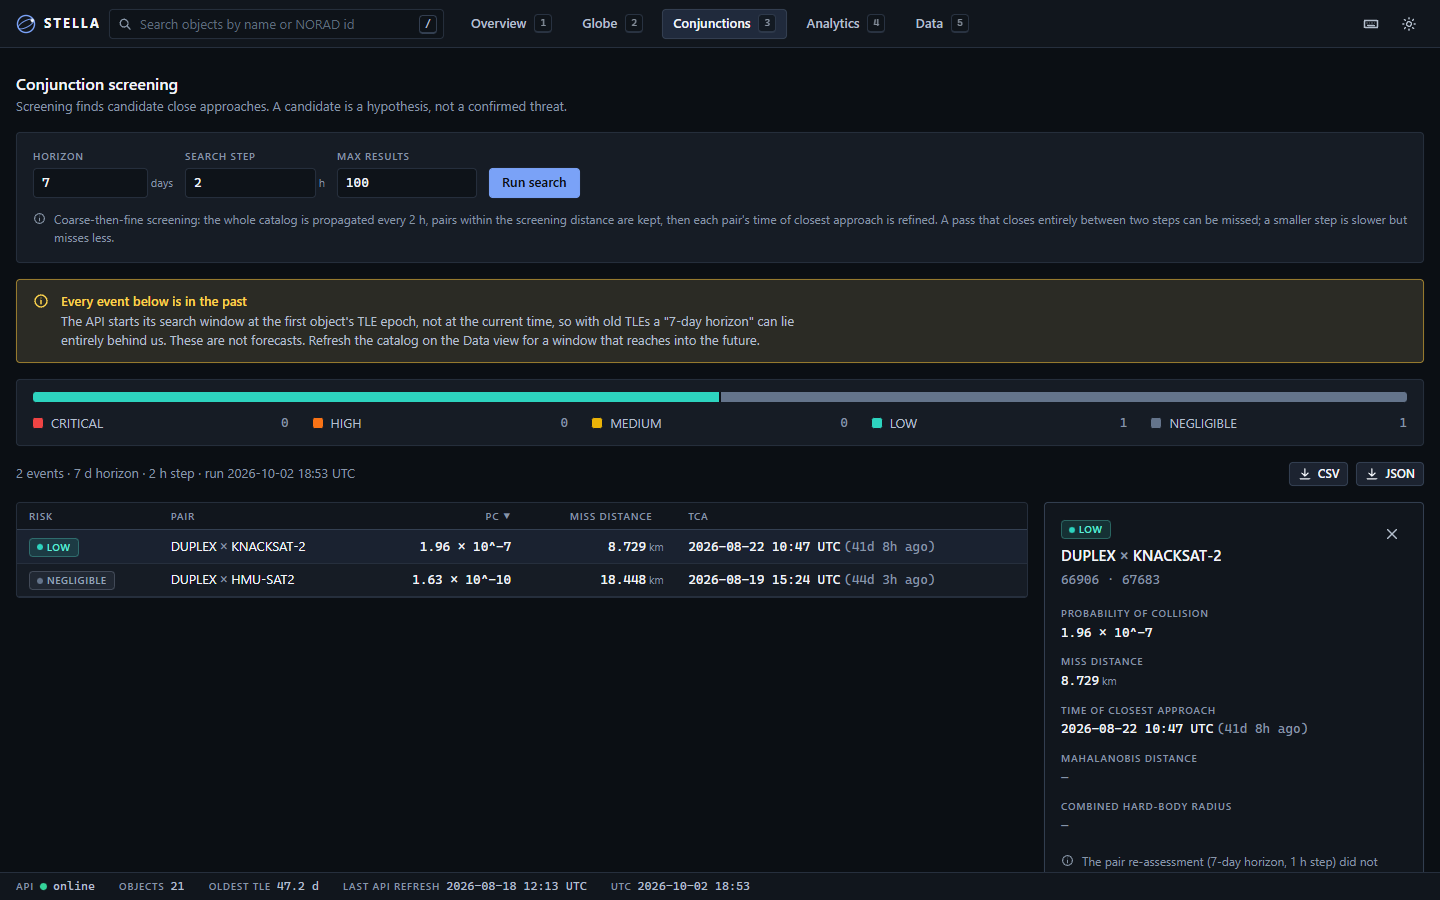
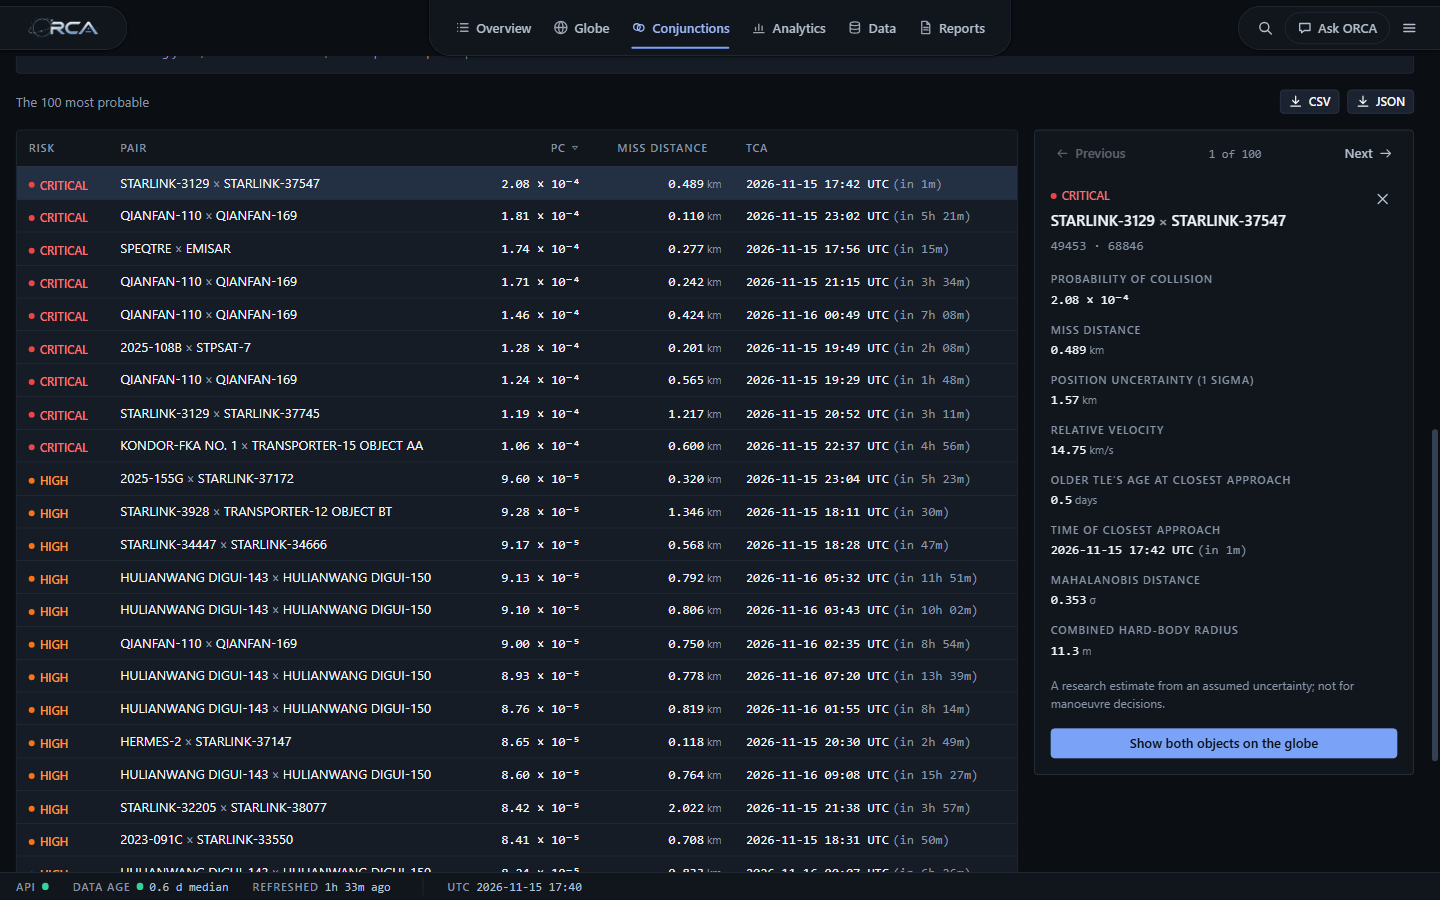
Screenshots after the declutter pass: README preview now six pages (Home, Globe, Conjunctions, Overview, Analytics, API health); report figures retaken from a live search, plus the new API health figure

diff --git a/snapshots/README.md b/snapshots/README.md
@@ -209,3 +209,25 @@ Every page after the declutter pass (`MD/declutter_plan_2026-11-15.md`); the "be
 | [after-health-light.png](14-declutter-2026-11-15/after-health-light.png) | Light theme |
 | [after-health-offline.png](14-declutter-2026-11-15/after-health-offline.png) | The API blocked: "The API is not answering", the error, the last good response kept |
 | [after-reports.png](14-declutter-2026-11-15/after-reports.png) | Reports: the builder no longer repeats the run line |
+
+## 14-report-figures-2026-11-15
+
+Figures for the final report, retaken after the declutter pass (same names, same 1440x900 or 390x844 framing). Conjunction figures come from a live 1-day search run at 17:39 UTC on 2026-11-15 (262,303 approaches closer than 10 km; 9 critical, 640 high). `01-sign-in` is the earlier capture (the sign-in page did not change). There is no figure 05.
+
+| File | What it shows |
+|---|---|
+| [01-sign-in-1440.png](14-report-figures-2026-11-15/01-sign-in-1440.png) | Sign in |
+| [02-home-1440.png](14-report-figures-2026-11-15/02-home-1440.png) | Home: headline, three KPI cards |
+| [03-home-lower-1440.png](14-report-figures-2026-11-15/03-home-lower-1440.png) | Home, lower: five worst approaches, orbit regimes, Data quality with the API row |
+| [04-overview-1440.png](14-report-figures-2026-11-15/04-overview-1440.png) | Overview with an object open |
+| [06-conjunctions-result-1440.png](14-report-figures-2026-11-15/06-conjunctions-result-1440.png) | Conjunctions: the answer, risk tiers, caveats |
+| [07-conjunctions-table-1440.png](14-report-figures-2026-11-15/07-conjunctions-table-1440.png) | The timeline and the table |
+| [08-pair-detail-1440.png](14-report-figures-2026-11-15/08-pair-detail-1440.png) | A pair open beside the table (with Mahalanobis distance and hard-body radius from the live re-assessment) |
+| [09-globe-conjunction-1440.png](14-report-figures-2026-11-15/09-globe-conjunction-1440.png) | The same pair on the Globe |
+| [10-analytics-1440.png](14-report-figures-2026-11-15/10-analytics-1440.png) | Analytics |
+| [11-data-1440.png](14-report-figures-2026-11-15/11-data-1440.png) | Data, centred |
+| [12-reports-1440.png](14-report-figures-2026-11-15/12-reports-1440.png) | Reports: builder and document |
+| [13-ask-orca-1440.png](14-report-figures-2026-11-15/13-ask-orca-1440.png) | Ask ORCA answering "Any close approaches?" |
+| [14-phone-home-390.png](14-report-figures-2026-11-15/14-phone-home-390.png) | Home on a phone |
+| [15-phone-globe-390.png](14-report-figures-2026-11-15/15-phone-globe-390.png) | Globe on a phone with a conjunction open |
+| [16-api-health-1440.png](14-report-figures-2026-11-15/16-api-health-1440.png) | API health with the raw JSON open (new) |

diff --git a/MD/README.md b/MD/README.md
@@ -8,9 +8,15 @@ ORCA ingests public satellite tracking data, propagates orbits, screens the cata
 
 ## Preview
 
-| Overview | Globe | Conjunctions |
+| Home | Globe | Conjunctions |
 |---|---|---|
-| ![Overview](../docs/screenshots/overview.png) | ![Globe](../docs/screenshots/globe.png) | ![Conjunctions](../docs/screenshots/conjunctions.png) |
+| ![Home: the object count, the latest search's close pairs and its five worst approaches](../docs/screenshots/home.png) | ![Globe: a critical conjunction with both orbits and the closest approach](../docs/screenshots/globe.png) | ![Conjunctions: a live search, the table a page at a time, the pair's detail beside it](../docs/screenshots/conjunctions.png) |
+
+| Overview | Analytics | API health |
+|---|---|---|
+| ![Overview: the catalogue table with one object open and where it sits among the catalogue](../docs/screenshots/overview.png) | ![Analytics: regime share, constellations, data age and orbit distributions](../docs/screenshots/analytics.png) | ![API health: whether the API answers, what it reports, and the raw JSON](../docs/screenshots/api-health.png) |
+
+Screenshots from 2026-11-15 (1440 px, dark theme, a live 1-day search over 15,977 objects).
 
 ## What it does
 

diff --git a/ORCA_COMPLETE_MASTER.md b/ORCA_COMPLETE_MASTER.md
@@ -885,7 +885,7 @@ P22 partial CI (Python tests gate deploys; frontend tests, typecheck and a live 
 ### Release
 - [ ] **Merge `fix/honest-conjunctions` into `main` and push** (deploys v2; backend and frontend together; needs the owner's go-ahead).
 - [ ] Decide whether the hosted site shows an evaluator login.
-- [ ] Update `docs/screenshots/` (the Conjunctions page changed).
+- [x] Update `docs/screenshots/` (2026-11-15: all six pages, after the declutter pass).
 
 ### Accuracy
 - [ ] Take a catalog snapshot daily for about a week (`benchmarks\refresh_measured.ps1`) to fill the 1–5 day gap, then copy the new bins into `CovarianceModel.MEASURED`.

diff --git a/MD/TASKS.md b/MD/TASKS.md
@@ -69,7 +69,7 @@ Source: [ux_audit_2026-11-15.md](ux_audit_2026-11-15.md) (finding numbers in bra
       together; one push to `main` does both. Needs the owner's go-ahead.
 - [ ] Decide whether the hosted site shows an evaluator login. Setting `VITE_EVALUATOR_*` in
       Vercel makes that login public.
-- [ ] Update the screenshots in `docs/screenshots/` (the Conjunctions page changed).
+- [x] Update the screenshots in `docs/screenshots/` (2026-11-15: all six pages, after the declutter pass).
 
 ## Open — accuracy
 
